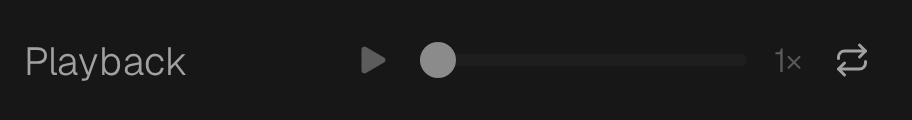
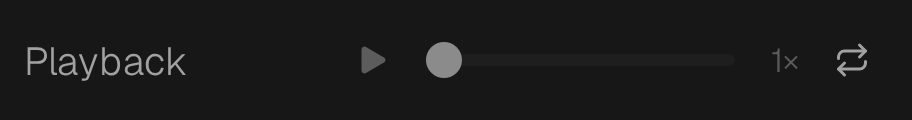
Standardize playback controls to 12px content gaps
Flatten the controls into one row and use consistent six-pixel content insets while preserving 24px button targets. The removed nested spacing layout was last present in 20697fa. Verify exact geometry in dock and video-overlay browser checks.

Changed region(s): [[0.4605, 0.35, 0.5219, 0.65], [0.8289, 0.4, 0.8904, 0.6]]

diff --git a/src/leika/client/src/viewport/VideoPlaybackControls.tsx b/src/leika/client/src/viewport/VideoPlaybackControls.tsx
@@ -92,8 +92,11 @@ export function VideoPlaybackControls({
           : `absolute right-0 bottom-0 p-1 opacity-0 group-hover/video:opacity-100 [@media(hover:none)]:opacity-100 ${fullControls ? "left-0" : ""}`
       }
     >
+      {/* Each item contributes a 6px content inset, giving a 12px visible gap.
+          The 24px icon buttons already inset their 12px icons by 6px; the
+          speed trigger uses 5px padding plus its 1px transparent border. */}
       <div
-        className={`flex min-w-0 items-center gap-1 rounded-md ${compact ? "h-6" : "h-8"} ${dock ? "" : "border bg-card px-1 text-card-foreground shadow-sm"}`}
+        className={`flex min-w-0 items-center rounded-md ${compact ? "h-6" : "h-8"} ${dock ? "" : "border bg-card px-1 text-card-foreground shadow-sm"}`}
       >
         {fullControls && (
           <>
@@ -138,91 +141,85 @@ export function VideoPlaybackControls({
                 </Button>
               </>
             )}
-            <div className="min-w-4 flex-1">{timeline}</div>
-          </>
-        )}
-        <div className="ml-auto flex shrink-0 items-center">
-          {fullControls && (
-            <>
-              {!compact && (
-                <span
-                  className={`px-1 tabular-nums ${dock ? "text-xs" : "text-[11px]"}`}
-                  aria-hidden="true"
-                  title={`${formatTime(time)} / ${formatTime(duration)}`}
-                >
-                  {formatTime(time)}
-                  {!dock && (
-                    <span className="@max-[260px]:hidden text-muted-foreground">
-                      {" "}
-                      / {formatTime(duration)}
-                    </span>
-                  )}
-                </span>
-              )}
-              <Select
-                value={rate}
-                onValueChange={(value) => {
-                  if (value !== null) playback.setRate(value);
-                }}
+            <div className="min-w-7 flex-1 px-1.5">{timeline}</div>
+            {!compact && (
+              <span
+                className={`shrink-0 px-1.5 tabular-nums whitespace-nowrap ${dock ? "text-xs" : "text-[11px]"}`}
+                aria-hidden="true"
+                title={`${formatTime(time)} / ${formatTime(duration)}`}
               >
-                <SelectTrigger
-                  size="xs"
-                  variant="ghost"
-                  className={`px-1 text-muted-foreground [&>svg]:hidden ${dock ? "text-xs" : "text-[11px]"}`}
-                  aria-label={`${label} playback speed`}
-                  title="Playback speed"
-                  disabled={!canSeek}
-                >
-                  <SelectValue>{rate}×</SelectValue>
-                </SelectTrigger>
-                <SelectContent
-                  container={fullscreen ? playerRef : undefined}
-                  side="top"
-                  align="end"
-                  alignItemWithTrigger={false}
-                  className="min-w-20"
-                >
-                  {PLAYBACK_RATES.map((value) => (
-                    <SelectItem key={value} value={value}>
-                      {value}×
-                    </SelectItem>
-                  ))}
-                </SelectContent>
-              </Select>
-              <Button
+                {formatTime(time)}
+                {!dock && (
+                  <span className="@max-[260px]:hidden text-muted-foreground">
+                    {" "}
+                    / {formatTime(duration)}
+                  </span>
+                )}
+              </span>
+            )}
+            <Select
+              value={rate}
+              onValueChange={(value) => {
+                if (value !== null) playback.setRate(value);
+              }}
+            >
+              <SelectTrigger
+                size="xs"
                 variant="ghost"
-                size="icon-xs"
-                className="shrink-0"
-                aria-label={`Loop ${label}`}
-                aria-pressed={loop}
-                title="Loop"
-                onClick={playback.toggleLoop}
+                className={`px-[5px] text-muted-foreground [&>svg]:hidden ${dock ? "text-xs" : "text-[11px]"}`}
+                aria-label={`${label} playback speed`}
+                title="Playback speed"
+                disabled={!canSeek}
               >
-                <RepeatIcon className={loop ? "" : "opacity-40"} />
-              </Button>
-            </>
-          )}
-          {playerRef && (
+                <SelectValue>{rate}×</SelectValue>
+              </SelectTrigger>
+              <SelectContent
+                container={fullscreen ? playerRef : undefined}
+                side="top"
+                align="end"
+                alignItemWithTrigger={false}
+                className="min-w-20"
+              >
+                {PLAYBACK_RATES.map((value) => (
+                  <SelectItem key={value} value={value}>
+                    {value}×
+                  </SelectItem>
+                ))}
+              </SelectContent>
+            </Select>
             <Button
               variant="ghost"
               size="icon-xs"
-              className="ml-auto shrink-0"
-              aria-label={`${fullscreen ? "Exit fullscreen" : "Fullscreen"} ${label}`}
-              title={fullscreen ? "Exit fullscreen" : "Fullscreen"}
-              disabled={!document.fullscreenEnabled}
-              onClick={() => {
-                const player = playerRef.current!;
-                void (
-                  document.fullscreenElement === player
-                    ? document.exitFullscreen()
-                    : player.requestFullscreen()
-                ).catch(() => {});
-              }}
+              className="shrink-0"
+              aria-label={`Loop ${label}`}
+              aria-pressed={loop}
+              title="Loop"
+              onClick={playback.toggleLoop}
             >
-              {fullscreen ? <MinimizeIcon /> : <MaximizeIcon />}
+              <RepeatIcon className={loop ? "" : "opacity-40"} />
             </Button>
-          )}
-        </div>
+          </>
+        )}
+        {playerRef && (
+          <Button
+            variant="ghost"
+            size="icon-xs"
+            className="ml-auto shrink-0"
+            aria-label={`${fullscreen ? "Exit fullscreen" : "Fullscreen"} ${label}`}
+            title={fullscreen ? "Exit fullscreen" : "Fullscreen"}
+            disabled={!document.fullscreenEnabled}
+            onClick={() => {
+              const player = playerRef.current!;
+              void (
+                document.fullscreenElement === player
+                  ? document.exitFullscreen()
+                  : player.requestFullscreen()
+              ).catch(() => {});
+            }}
+          >
+            {fullscreen ? <MinimizeIcon /> : <MaximizeIcon />}
+          </Button>
+        )}
       </div>
       {dock && status && (
         <p role="status" className="sr-only">

diff --git a/tests/e2e/test_video_groups.py b/tests/e2e/test_video_groups.py
@@ -1,5 +1,6 @@
 from pathlib import Path
 
+import pytest
 from playwright.sync_api import Page, expect
 
 import leika
@@ -160,12 +161,25 @@ def test_dock_label_selects_standard_row_layout_without_resetting_playback(
             const row = el.getBoundingClientRect();
             const slider = el.querySelector('[data-slot="slider"]').getBoundingClientRect();
             const buttons = [...el.querySelectorAll('button')].map(b => b.getBoundingClientRect());
+            const contents = [...el.querySelectorAll(
+                '[data-slot="button"], [data-slot="slider"], span.tabular-nums, [data-slot="select-trigger"]'
+            )].map(item => {
+                const content = item.querySelector(
+                    '[data-slot="slider-track"], [data-slot="select-value"], svg'
+                );
+                if (content) return content.getBoundingClientRect();
+                const range = document.createRange();
+                range.selectNodeContents(item);
+                return range.getBoundingClientRect();
+            });
             return {sliderWidth: slider.width,
+                gaps: contents.slice(1).map((item, i) => item.left - contents[i].right),
                 fits: buttons.every(b => b.left >= row.left && b.right <= row.right &&
                     b.top >= row.top && b.bottom <= row.bottom)};
         }""")
         assert geometry["sliderWidth"] >= 40, geometry
         assert geometry["fits"], geometry
+        assert geometry["gaps"] == pytest.approx([12] * len(geometry["gaps"]), abs=0.5)
 
     assert_fits(full)
     controls.label = "Timeline"

diff --git a/tests/e2e/test_video_pane.py b/tests/e2e/test_video_pane.py
@@ -302,4 +302,4 @@ def test_video_control_hover_geometry(
                 speedText.left - text.right, loop.left - speedText.right,
                 fullscreen.left - loop.right];
         }""")
-        assert all(8 <= gap <= 12 for gap in gaps), gaps
+        assert gaps == pytest.approx([12] * len(gaps), abs=0.5), gaps

diff --git a/docs/panes.md b/docs/panes.md
@@ -388,7 +388,9 @@ Without a label, the dock component is one full-width 32px row: play/pause,
 previous/next frame, seek, elapsed time, speed and loop. Elapsed time stays
 visible; hover over it for total duration. Pass a label, for example
 `server.gui.add_video_controls("Playback", sync_group="episode")`, for a standard
-24px labelled row containing only play/pause, seek, speed and loop. The label
+24px labelled row containing only play/pause, seek, speed and loop. Both dock
+layouts and video overlays use 12px gaps between icon bounds, text and the
+timeline, with 24px button targets. The label
 uses the same left column and styling as other GUI controls. Update
 `controls.label` to switch layouts; `None` restores the full row.
 
